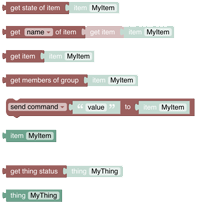
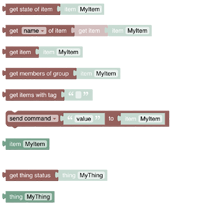
[blockly] document replace, taggeditems, list_concat, previous_value, datetime

diff --git a/configuration/blockly/rules-blockly-standard-ext.md b/configuration/blockly/rules-blockly-standard-ext.md
@@ -27,8 +27,6 @@ More about that topic can be viewed at ![youtube](../images/blockly/youtube-logo
 
 ### CRLF
 
-Since OpenHAB 3.3.0M6
-
 CRLF stands for carriage-return / line-feed which is a technical term for adding a new line in a string
 
 ![crlf](../images/blockly/blockly-text-overview.png)
@@ -38,6 +36,17 @@ _Function:_ return a newline character to be added to a string.
 **Example:**
 
 ![crlf](../images/blockly/blockly-text-crlf-example.png)
+
+### Text Replace
+
+![text-replace](../images/blockly/blockly-text-replace.png)
+
+_Function:_ Allows to replace something that is defined by the _pattern_ in the _origin_-text with what is provided in _replacement_.
+Note that the pattern can be just a text or also regex expression.
+
+**Example:**
+
+![text-replace example](../images/blockly/blockly-text-replace-example.png)
 
 ## Colors
 
@@ -97,13 +106,14 @@ _Function:_ This a special openHAB block that converts a hexadecimal color code 
 
 - use that block and connect one of the above blocks into that one to be able to retrieve the HSB value of that block.
 
-**Example:**
+Example
 
 ![get-hsb-of-example](../images/blockly/blockly-colors-hsbof-example.png)
 
 ## Lists
 
 ![lists-overview](../images/blockly/blockly-lists-dictionary-overview.png)
+![lists-overview-concat](../images/blockly/blockly-lists-concatenate.png)
 
 ### Dictionary for managing key / value pairs
 
@@ -115,7 +125,7 @@ Then drag the key block on the upper left into the key/value bracket on the righ
 
 Rename the keys as required and then add any value block type to the related key:
 
-Example:
+**Example:**
 
 ![dictionary-example](../images/blockly/blockly-lists-dictionary-example.png)
 
@@ -125,9 +135,19 @@ Example:
 
 _Function:_ Retrieves the value of the key in the given directory
 
-Example:
+**Example:**
 
 ![dictionary-getkey-example](../images/blockly/blockly-lists-dictionary-getkey-example.png)
+
+### Concatenate lists
+
+![lists-overview-concat](../images/blockly/blockly-lists-concatenate.png)
+
+_Function:_ adds the second list to the first list and returns a new list
+
+Example:
+
+![lists-overview-concat](../images/blockly/blockly-lists-concatenate-example.png)
 
 ## Loops
 

diff --git a/configuration/blockly/rules-blockly-persistence.md b/configuration/blockly/rules-blockly-persistence.md
@@ -46,7 +46,22 @@ This method uses a time-weighted average calculation
 - maximum: gets the maximum value of the State of the given Item since a certain point in time
 - maximum: gets the sum of the State of the given Item since a certain point in time
 
-Note:  in case no or 0 values are retrieved, make sure that the item in question is actually persisted.
+In the case of the following two functions the block changes its appearence by replacing the time with an option to chose if the equal value should be skipped or not:
+
+![previous-block](../images/blockly/blockly-persistence-get-previous.png)
+
+- previous state value: Gets the previous state with option to skip to different value as current
+- previous state value time: Gets the time when previous state last occurred with option to skip to different value as current
+
+The skip option set to true allows to search for first state that is different from the current state.
+
+_Important:_ This option is not supported by all persistence databases and may throw an error in that case (for example the standard rrd4j does _not_ support it while influxdb does support it).
+
+Notes: in case no or 0 values are retrieved, make sure that the item in question is actually persisted.
+
+**Previous State Example**
+
+![previous-example](../images/blockly/blockly-persistence-get-previous-example.png)
 
 ### Check item change / update since a point in time
 

diff --git a/configuration/blockly/rules-blockly-items-things.md b/configuration/blockly/rules-blockly-items-things.md
@@ -102,6 +102,17 @@ The following example depicts the above possibilities:
 
 ![blockly-getMembersExample](../images/blockly/blockly-getMembersExample.png)
 
+### Get Items with Tag
+
+![blockly-getMembers](../images/blockly/blockly-getitemswithtag.png)
+
+Function: Gets all items with the given tags which you can iterate over via a loop
+
+- returns a collection of items which have the given tags
+- multiple tags can be provided which then need to be separared with a comma
+- if multiple tags are given, the item must have all of the tags ("and"-condition)
+- tip: if you need an item that has one of multiple tags, then you need to use one block of each and then use the ["concatenate list block"](https://www.openhab.org/docs/configuration/blockly/rules-blockly-standard-ext.html#concatenate-list) to combine the results.
+
 ### Get particular attributes of an item
 
 ![blockly-getItemAttributes](../images/blockly/blockly-getItemAttributes.png)

diff --git a/configuration/blockly/index.md b/configuration/blockly/index.md
@@ -204,6 +204,7 @@ This section explains only the blocks that have been added to the standard block
 [![openHAB Extensions to the standard](../images/blockly/blockly-text-overview-small.png "openHAB Extensions to the Standard")
 ](rules-blockly-standard-ext.html)[![openHAB Extensions to the standard](../images/blockly/blockly-colors-overview-small.png "openHAB Extensions to the Standard")
 ](rules-blockly-standard-ext.html)[![openHAB Extensions to the standard](../images/blockly/blockly-lists-dictionary-overview-small.png "openHAB Extensions to the Standard")
+![lists-overview-concat](../images/blockly/blockly-lists-concatenate.png)
 ](rules-blockly-standard-ext.html)
 
 See [openHAB Extensions to the standard](rules-blockly-standard-ext.html) section.

diff --git a/configuration/blockly/rules-blockly-date-handling.md b/configuration/blockly/rules-blockly-date-handling.md
@@ -80,6 +80,8 @@ Type: _ZonedDateTime_
 This block will return the date as _ZonedDateTime_ based on the given String.
 The String may be one of the following formats (since 3.3) the following formats are supported)
 
+- HH:mm
+- HH:mm:ss
 - yyyy-MM-dd
 - yyyy-MM-dd HH:mm
 - yyyy-MM-dd HH:mm:ss
